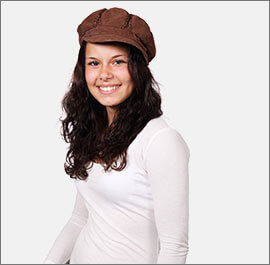
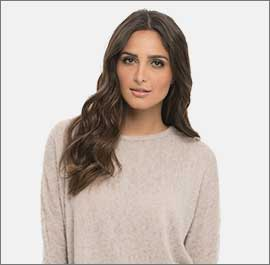
Code Add

diff --git a/about.html b/about.html
@@ -13,6 +13,7 @@
     href="https://fonts.googleapis.com/css2?family=Open+Sans:ital,wght@0,300;0,400;0,500;0,600;0,700;0,800;1,300;1,400;1,500;1,600;1,700;1,800&family=Raleway:ital,wght@0,100;0,200;0,300;0,400;0,500;0,600;0,700;0,800;0,900;1,100;1,200;1,300;1,400;1,500;1,600;1,700;1,800;1,900&display=swap"
     rel="stylesheet" />
   <link rel="stylesheet" href="https://cdnjs.cloudflare.com/ajax/libs/font-awesome/5.15.4/css/all.min.css" />
+  <link rel="stylesheet" href="css/slick.css">
   <link rel="stylesheet" href="css/bootstrap.min.css" />
   <link rel="stylesheet" href="scss/style.css" />
 </head>
@@ -233,7 +234,7 @@
         <div class="designer-slider">
           <div class="designer-item">
             <div class="designer-image">
-              <img src="images/featured-1.jpg" alt="Featured-1" class="img-fluid w-100">
+              <img src="images/designer-1.jpg" alt="Designer-1" class="img-fluid w-100">
               <div class="overlay">
                 <ul class="ps-0 mb-0">
                   <li><a href="#" class="fab fa-facebook-f"></a></li>
@@ -249,7 +250,7 @@
           </div>
           <div class="designer-item">
             <div class="designer-image">
-              <img src="images/featured-1.jpg" alt="Featured-1" class="img-fluid w-100">
+              <img src="images/designer-2.jpg" alt="Designer-2" class="img-fluid w-100">
               <div class="overlay">
                 <ul class="ps-0 mb-0">
                   <li><a href="#" class="fab fa-facebook-f"></a></li>
@@ -259,13 +260,13 @@
               </div>
             </div>
             <div class="designer-title text-center">
-              <h3 class="mb-0 text-capitalize">sakeba aney</h3>
-              <p class="mb-0 text-capitalize">web designer</p>
+              <h3 class="mb-0 text-capitalize">taimur mony</h3>
+              <p class="mb-0 text-capitalize">graphic designer</p>
             </div>
           </div>
           <div class="designer-item">
             <div class="designer-image">
-              <img src="images/featured-1.jpg" alt="Featured-1" class="img-fluid w-100">
+              <img src="images/designer-3.jpg" alt="Designer-3" class="img-fluid w-100">
               <div class="overlay">
                 <ul class="ps-0 mb-0">
                   <li><a href="#" class="fab fa-facebook-f"></a></li>
@@ -275,13 +276,13 @@
               </div>
             </div>
             <div class="designer-title text-center">
-              <h3 class="mb-0 text-capitalize">sakeba aney</h3>
-              <p class="mb-0 text-capitalize">web designer</p>
+              <h3 class="mb-0 text-capitalize">anamika jeny</h3>
+              <p class="mb-0 text-capitalize">web developer</p>
             </div>
           </div>
           <div class="designer-item">
             <div class="designer-image">
-              <img src="images/featured-1.jpg" alt="Featured-1" class="img-fluid w-100">
+              <img src="images/designer-4.jpg" alt="Designer-4" class="img-fluid w-100">
               <div class="overlay">
                 <ul class="ps-0 mb-0">
                   <li><a href="#" class="fab fa-facebook-f"></a></li>
@@ -291,8 +292,8 @@
               </div>
             </div>
             <div class="designer-title text-center">
-              <h3 class="mb-0 text-capitalize">sakeba aney</h3>
-              <p class="mb-0 text-capitalize">web designer</p>
+              <h3 class="mb-0 text-capitalize">ishtiaq jony</h3>
+              <p class="mb-0 text-capitalize">graphic designer</p>
             </div>
           </div>
         </div>
@@ -302,6 +303,40 @@
 
   <!-- ==================
     Our Designer Part Ends
+ ==================== -->
+
+  <!-- =====================
+    Our Partner Part Starts
+ ======================= -->
+
+  <section id="our-partner">
+    <div class="container">
+      <div class="partner-slider">
+        <div class="partner-item">
+          <img src="images/partner-1.jpg" alt="Partner-1" class="img-fluid">
+        </div>
+        <div class="partner-item">
+          <img src="images/partner-2.jpg" alt="Partner-2" class="img-fluid">
+        </div>
+        <div class="partner-item">
+          <img src="images/partner-3.jpg" alt="Partner-3" class="img-fluid">
+        </div>
+        <div class="partner-item">
+          <img src="images/partner-4.jpg" alt="Partner-4" class="img-fluid">
+        </div>
+        <div class="partner-item">
+          <img src="images/partner-5.jpg" alt="Partner-5" class="img-fluid">
+        </div>
+        <div class="partner-item">
+          <img src="images/partner-3.jpg" alt="Partner-3" class="img-fluid">
+        </div>
+      </div>
+    </div>
+  </section>
+
+
+  <!-- ==================
+    Our Partner Part Ends
  ==================== -->
 
 
@@ -428,7 +463,7 @@
   <script src="js/slick.min.js"></script>
   <script src="js/waypoints.min.js"></script>
   <script src="js/jquery.counterup.min.js"></script>
-  <script src="js/aboutpage.js"></script>
+  <script src="js/custom.js"></script>
 </body>
 
 </html>

diff --git a/scss/style.css b/scss/style.css
@@ -1418,7 +1418,6 @@ nav .navbar-collapse .cart-item {
 #our-designer .designer-body .designer-item .designer-image {
   position: relative;
   overflow: hidden;
-  border: 1px solid #777;
 }
 
 #our-designer .designer-body .designer-item .designer-image:hover .overlay {
@@ -1512,6 +1511,85 @@ nav .navbar-collapse .cart-item {
 /* ===========================
     Our Designer Part Ends
 =========================== */
+/* =========================
+    Our Partner Part Starts
+========================== */
+#our-partner {
+  padding-bottom: 95px;
+}
+
+#our-partner .partner-slider .fa-chevron-left {
+  width: 30px;
+  height: 30px;
+  border: 1px solid #444444;
+  line-height: 30px;
+  color: #222222;
+  font-size: 18px;
+  text-align: center;
+  cursor: pointer;
+  position: absolute;
+  bottom: 45px;
+  z-index: 2;
+  left: -45px;
+  transition: all linear 0.4s;
+  -ms-transition: all linear 0.4s;
+  -moz-transition: all linear 0.4s;
+  -o-transition: all linear 0.4s;
+  -webkit-transition: all linear 0.4s;
+}
+
+#our-partner .partner-slider .fa-chevron-left:hover {
+  color: #fff;
+  background: #de4644;
+  border-color: #de4644;
+}
+
+#our-partner .partner-slider .fa-chevron-right {
+  width: 30px;
+  height: 30px;
+  border: 1px solid #444444;
+  line-height: 30px;
+  color: #222222;
+  font-size: 18px;
+  text-align: center;
+  cursor: pointer;
+  position: absolute;
+  bottom: 45px;
+  z-index: 2;
+  transition: all linear 0.4s;
+  -ms-transition: all linear 0.4s;
+  -moz-transition: all linear 0.4s;
+  -o-transition: all linear 0.4s;
+  -webkit-transition: all linear 0.4s;
+  right: -50px;
+}
+
+#our-partner .partner-slider .fa-chevron-right:hover {
+  color: #fff;
+  background: #de4644;
+  border-color: #de4644;
+}
+
+#our-partner .partner-slider .slick-center img {
+  -webkit-box-shadow: 0px 0px 5px 0px rgba(0, 0, 0, 0.7);
+          box-shadow: 0px 0px 5px 0px rgba(0, 0, 0, 0.7);
+}
+
+#our-partner .partner-slider .partner-item {
+  padding: 0 15px;
+}
+
+#our-partner .partner-slider .partner-item img {
+  transition: all linear 0.5s;
+  -ms-transition: all linear 0.5s;
+  -moz-transition: all linear 0.5s;
+  -o-transition: all linear 0.5s;
+  -webkit-transition: all linear 0.5s;
+}
+
+/* =========================
+    Our Partner Part Ends
+========================== */
 /* =========================
   Page Lower Portion Starts
 ========================== */

diff --git a/js/custom.js b/js/custom.js
@@ -1,6 +1,9 @@
 $(document).ready(function () {
   'use strict'
 
+
+
+
   // Service Slider
 
   $('.service-body').slick({
@@ -30,6 +33,44 @@ $(document).ready(function () {
   });
 
 
+  // Testimonial Slider
+
+  $('.testimonial-slider').slick({
+    slidesToShow: 2,
+    slidesToScroll: 1,
+    prevArrow: '<i class="fas fa-chevron-left"></i>',
+    nextArrow: '<i class="fas fa-chevron-right"></i>',
+  })
+
+
+  // Designer Slider
+
+  $('.designer-slider').slick({
+    slidesToShow: 4,
+  })
+
+
+  // Partner Slider
+
+  $('.partner-slider').slick({
+    slidesToShow: 5,
+    slidesToScroll: 1,
+    prevArrow: '<i class="fas fa-chevron-left"></i>',
+    nextArrow: '<i class="fas fa-chevron-right"></i>',
+    centerMode: true,
+    centerPadding: '0',
+  })
+
+
+
+  // Counter Up
+
+  $('.counter').counterUp({
+    delay: 10,
+    time: 1000
+  });
+
+
   // Countdown Timer
 
   $('#countdown').countdown({
@@ -41,14 +82,7 @@ $(document).ready(function () {
     second: 0, // 0-59
   });
 
-  // Testimonial Slider
 
-  $('.testimonial-slider').slick({
-    slidesToShow: 2,
-    slidesToScroll: 1,
-    prevArrow: '<i class="fas fa-chevron-left"></i>',
-    nextArrow: '<i class="fas fa-chevron-right"></i>',
-  })
 
 
   // Feature Product Filter
@@ -60,8 +94,7 @@ $(document).ready(function () {
 
   $('.venobox').venobox();
 
-  // Counterup
 
-  // Counter Up
+
 
 })

diff --git a/scss/about_page/_our-partner.scss b/scss/about_page/_our-partner.scss
@@ -1,0 +1,53 @@
+@import '../variables';
+
+
+/* =========================
+    Our Partner Part Starts
+========================== */
+
+#our-partner {
+    padding-bottom: 95px;
+
+    .partner-slider {
+        .fa-chevron-left {
+            @include patslion;
+            left: -45px;
+            @include trans(.4s);
+
+            &:hover {
+                color: #fff;
+                @include bhover;
+            }
+        }
+
+        .fa-chevron-right {
+            @include patslion;
+            @include trans(.4s);
+            right: -50px;
+
+            &:hover {
+                color: #fff;
+                @include bhover;
+            }
+        }
+
+        .slick-center {
+            img {
+                box-shadow: 0px 0px 5px 0px rgba(0, 0, 0, 0.7);
+            }
+        }
+
+        .partner-item {
+            padding: 0 15px;
+
+            img {
+                @include trans(.5s);
+            }
+        }
+    }
+}
+
+
+/* =========================
+    Our Partner Part Ends
+========================== */

diff --git a/scss/_mixin.scss b/scss/_mixin.scss
@@ -51,3 +51,17 @@
     bottom: 30px;
     z-index: 2;
 }
+
+@mixin patslion {
+    width: 30px;
+    height: 30px;
+    border: 1px solid $bg1;
+    line-height: 30px;
+    color: $cl3;
+    font-size: 18px;
+    text-align: center;
+    cursor: pointer;
+    position: absolute;
+    bottom: 45px;
+    z-index: 2;
+}

diff --git a/scss/about_page/_our-designer.scss b/scss/about_page/_our-designer.scss
@@ -50,7 +50,6 @@
             .designer-image {
                 position: relative;
                 overflow: hidden;
-                border: 1px solid #777;
 
                 &:hover {
                     .overlay {

diff --git a/scss/style.scss b/scss/style.scss
@@ -34,4 +34,5 @@ a {
 @import 'about_page/about-details';
 @import 'about_page/counterup';
 @import 'about_page/our-designer';
+@import 'about_page/our-partner';
 @import 'header_footer/footer';
